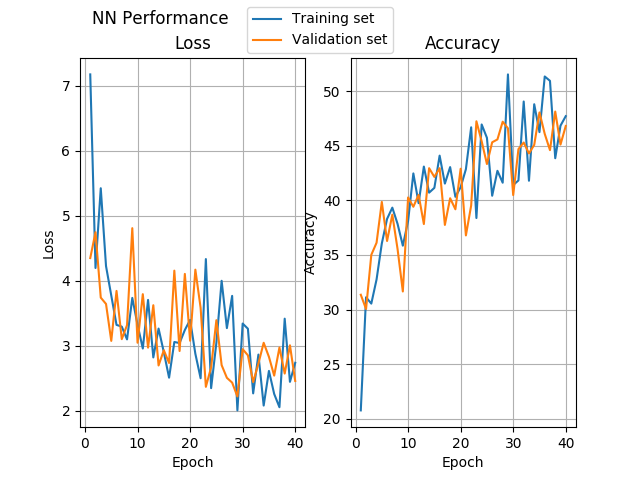
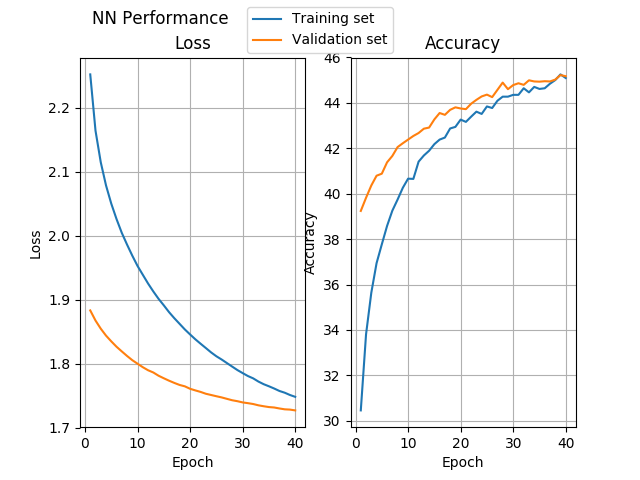
Graphs and weight plots for different test cases.

diff --git a/solution.py b/solution.py
@@ -263,7 +263,7 @@ def plot_loss(n_epochs, loss_history_train, loss_history_val,
 
     handles, labels = ax1.get_legend_handles_labels()
     fig.legend(handles, labels, loc='upper center')
-    fig.savefig('imgs/graph_case_3.png')
+    fig.savefig('imgs/graph_case_4.png')
     plt.show()
 
 
@@ -281,13 +281,13 @@ def plot_learnt_weight_matrix(W):
         plt.title(class_labels[i])
     # Plot big-sized labeled images
     plt.suptitle('Weigth Matrix Templates')
-    plt.savefig('imgs/labeled_templates_case_3.png')
+    plt.savefig('imgs/labeled_templates_case_4.png')
     plt.show()
     # Plot all images concatenated
     plt.title('Weigth Matrix Templates')
     plt.imshow(np.concatenate(tuple(class_templates), axis=1))
     plt.axis('off')
-    plt.savefig('imgs/templates_case_3.png')
+    plt.savefig('imgs/templates_case_4.png')
     plt.show()
 
 if __name__ == "__main__":
@@ -300,7 +300,7 @@ if __name__ == "__main__":
 
     # Initializing parameters
     W, b = initialize_parameters()
-    GD_params = {'lambda': 0, 'n_epochs': 40, 'n_batch': 100, 'eta': 0.1}
+    GD_params = {'lambda': 1, 'n_epochs': 40, 'n_batch': 100, 'eta': 0.001}
 
     # Running training
     X_train, Y_train, y_train = read_imgs(batch_file_training)
